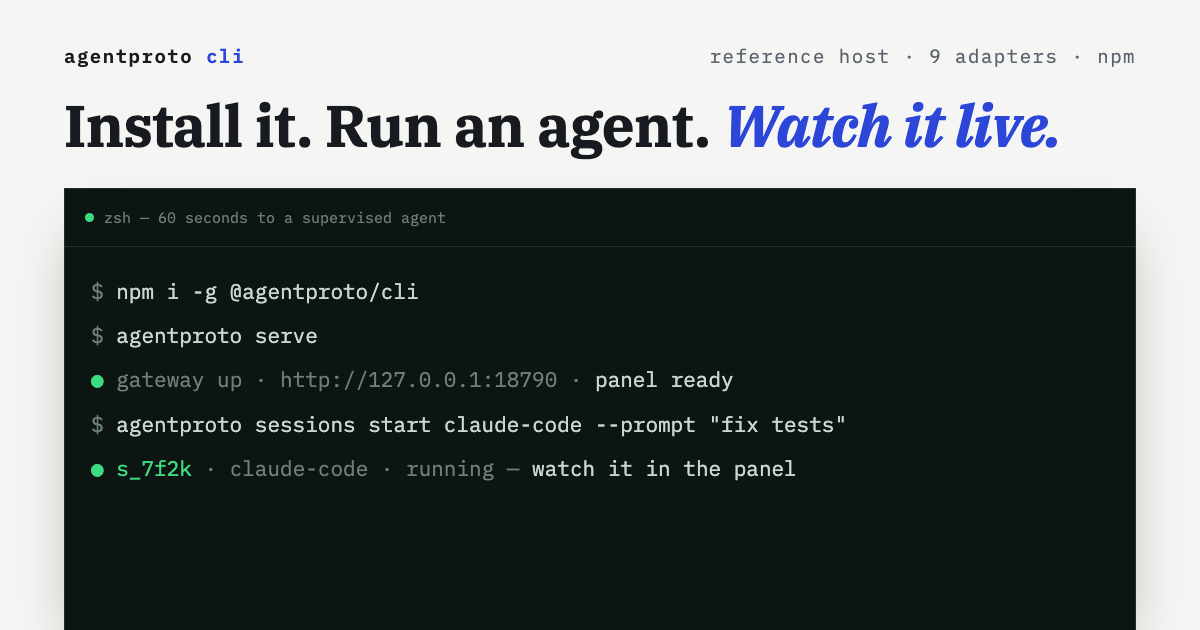
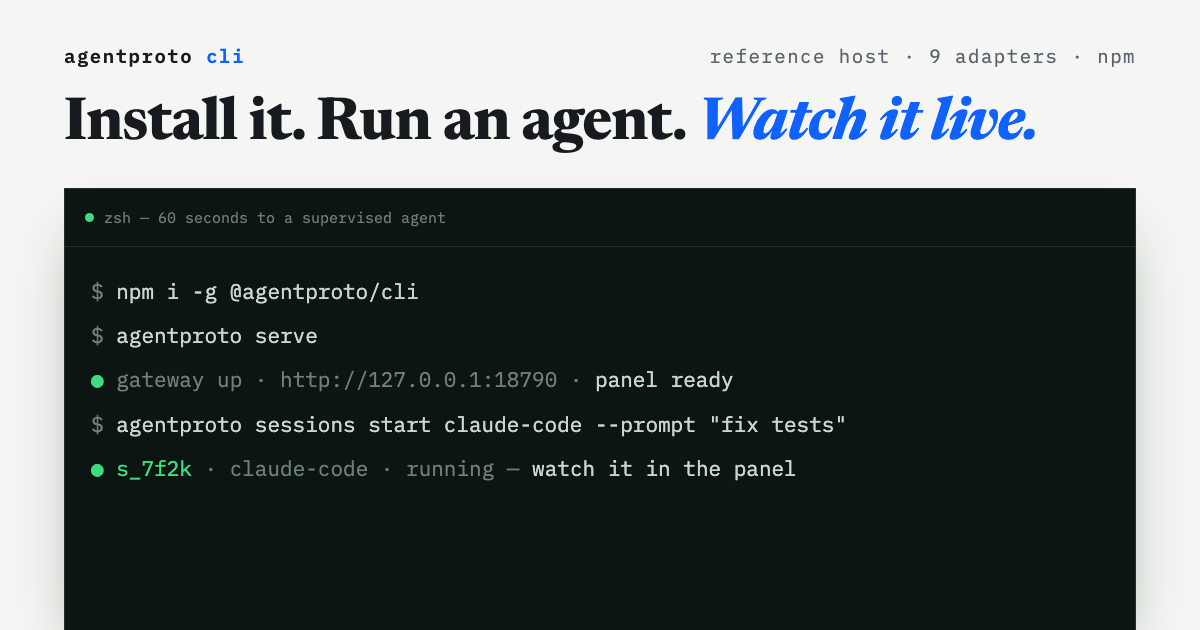
Design: Newsreader display + IBM Blue accent (#7)
Companion to agentproto/site — same brand.css, same font swap
(--font-display), OG image re-rendered, CI sync check upgraded
(same-branch comparison, warning-only on main pushes).

Changed region(s): [[0.0308, 0.1508, 0.8942, 0.2714]]

diff --git a/src/app/brand.css b/src/app/brand.css
@@ -5,8 +5,8 @@
    src/app/brand.css. CI diffs this file against the sibling repo's
    main branch — edit BOTH repos or the check fails.
 
-   The page is an engineering document: cool paper, ink, ultramarine
-   accent, IBM Plex serif display. The dark terminal panels are the
+   The page is an engineering document: cool paper, ink, azure
+   accent (IBM Blue), Newsreader display. The dark terminal panels are the
    only place the phosphor green / amber status colors appear — the
    paper ↔ phosphor contrast IS the brand ("the spec is a document,
    the daemon is alive"). Terminal tokens are theme-invariant.
@@ -15,7 +15,7 @@
 @theme inline {
   --font-sans: var(--font-plex-sans), system-ui, sans-serif;
   --font-mono: var(--font-plex-mono), ui-monospace, "SF Mono", Menlo, monospace;
-  --font-serif: var(--font-plex-serif), Charter, Georgia, serif;
+  --font-serif: var(--font-display), Charter, Georgia, serif;
 }
 
 :root {
@@ -28,13 +28,13 @@
   --color-fd-card: #ffffff;
   --color-fd-card-foreground: #171a1e;
   --color-fd-border: #dde0da;
-  --color-fd-primary: #2c46d8;
+  --color-fd-primary: #0f62fe;
   --color-fd-primary-foreground: #ffffff;
   --color-fd-secondary: #e9ebe6;
   --color-fd-secondary-foreground: #171a1e;
-  --color-fd-accent: #e7eaf9;
-  --color-fd-accent-foreground: #1b2b90;
-  --color-fd-ring: #2c46d8;
+  --color-fd-accent: #e0eaff;
+  --color-fd-accent-foreground: #0043ce;
+  --color-fd-ring: #0f62fe;
 
   /* runtime island — theme-invariant */
   --term-bg: #0d1512;
@@ -55,13 +55,13 @@
   --color-fd-card: #16191d;
   --color-fd-card-foreground: #e8eaed;
   --color-fd-border: #272c33;
-  --color-fd-primary: #8296ff;
-  --color-fd-primary-foreground: #10141f;
+  --color-fd-primary: #4589ff;
+  --color-fd-primary-foreground: #0c1420;
   --color-fd-secondary: #1b1f24;
   --color-fd-secondary-foreground: #e8eaed;
-  --color-fd-accent: #232a3d;
-  --color-fd-accent-foreground: #c9d2ff;
-  --color-fd-ring: #8296ff;
+  --color-fd-accent: #1c2b47;
+  --color-fd-accent-foreground: #a6c8ff;
+  --color-fd-ring: #4589ff;
 }
 
 /* ── status blink (running dots, hero cursor) ──────────────────── */

diff --git a/src/app/layout.tsx b/src/app/layout.tsx
@@ -1,5 +1,5 @@
 import type { Metadata } from "next"
-import { IBM_Plex_Mono, IBM_Plex_Sans, IBM_Plex_Serif } from "next/font/google"
+import { IBM_Plex_Mono, IBM_Plex_Sans, Newsreader } from "next/font/google"
 import { RootProvider } from "fumadocs-ui/provider/next"
 import { BrandRibbon } from "@/components/brand-ribbon"
 import "./global.css"
@@ -14,11 +14,11 @@ const plexMono = IBM_Plex_Mono({
   weight: ["400", "600"],
   variable: "--font-plex-mono",
 })
-const plexSerif = IBM_Plex_Serif({
+const display = Newsreader({
   subsets: ["latin"],
   weight: ["600", "700"],
   style: ["normal", "italic"],
-  variable: "--font-plex-serif",
+  variable: "--font-display",
 })
 
 export const metadata: Metadata = {
@@ -47,7 +47,7 @@ export default function RootLayout({
     <html
       lang="en"
       suppressHydrationWarning
-      className={`${plexSans.variable} ${plexMono.variable} ${plexSerif.variable}`}
+      className={`${plexSans.variable} ${plexMono.variable} ${display.variable}`}
     >
       <body className="flex flex-col min-h-screen">
         <RootProvider>
